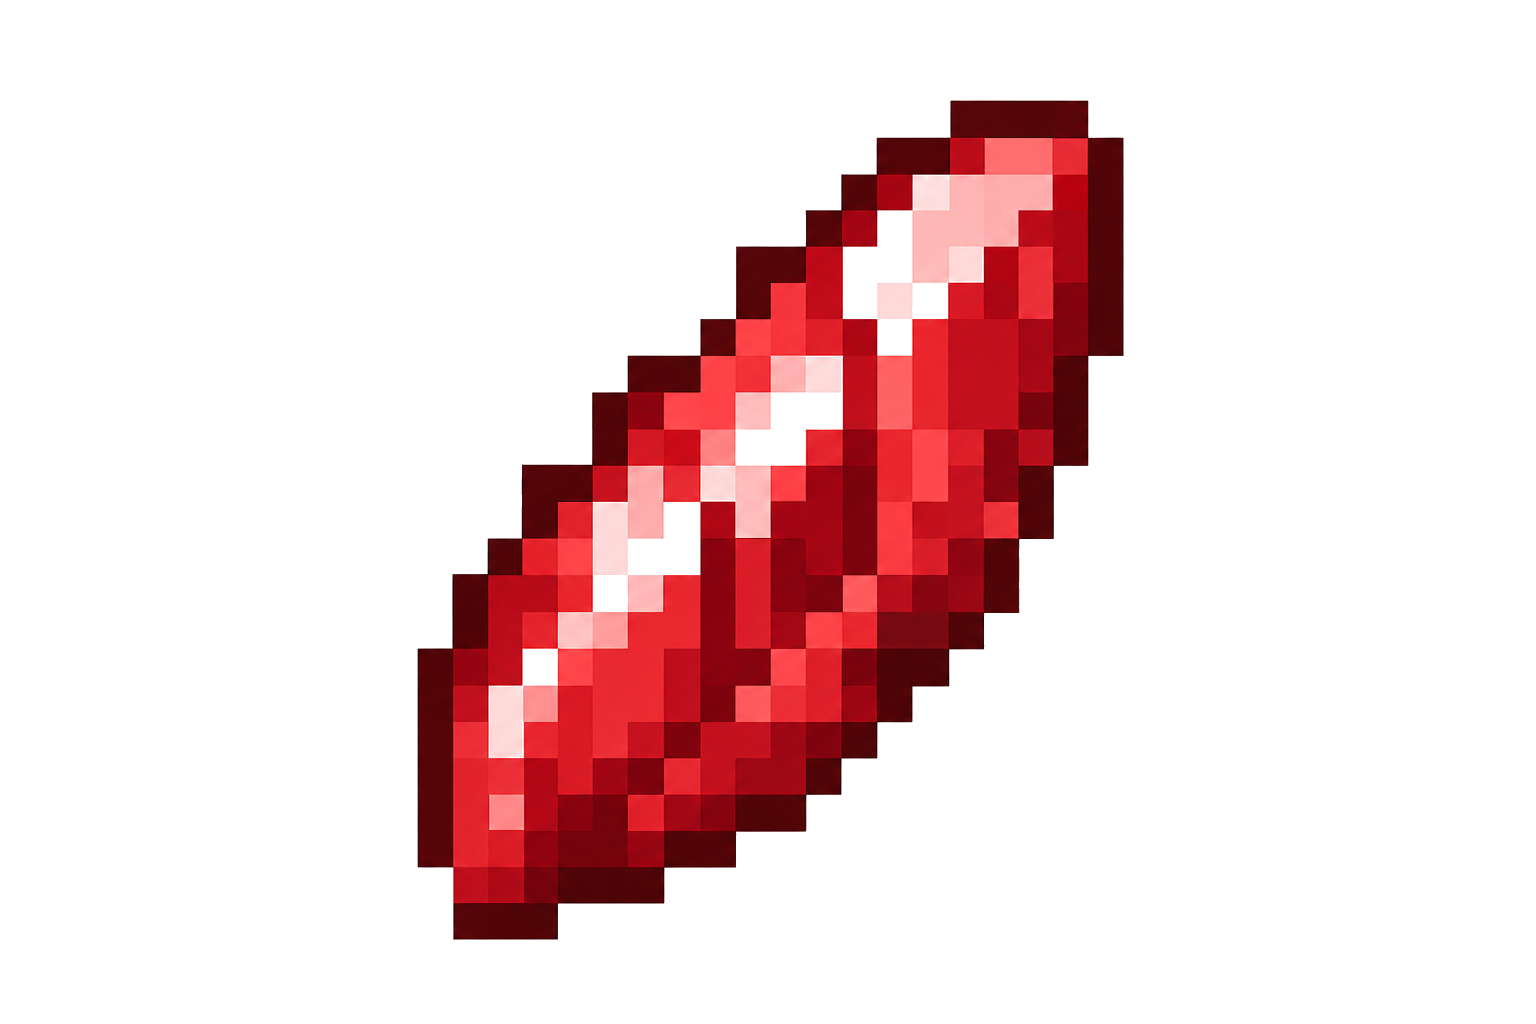
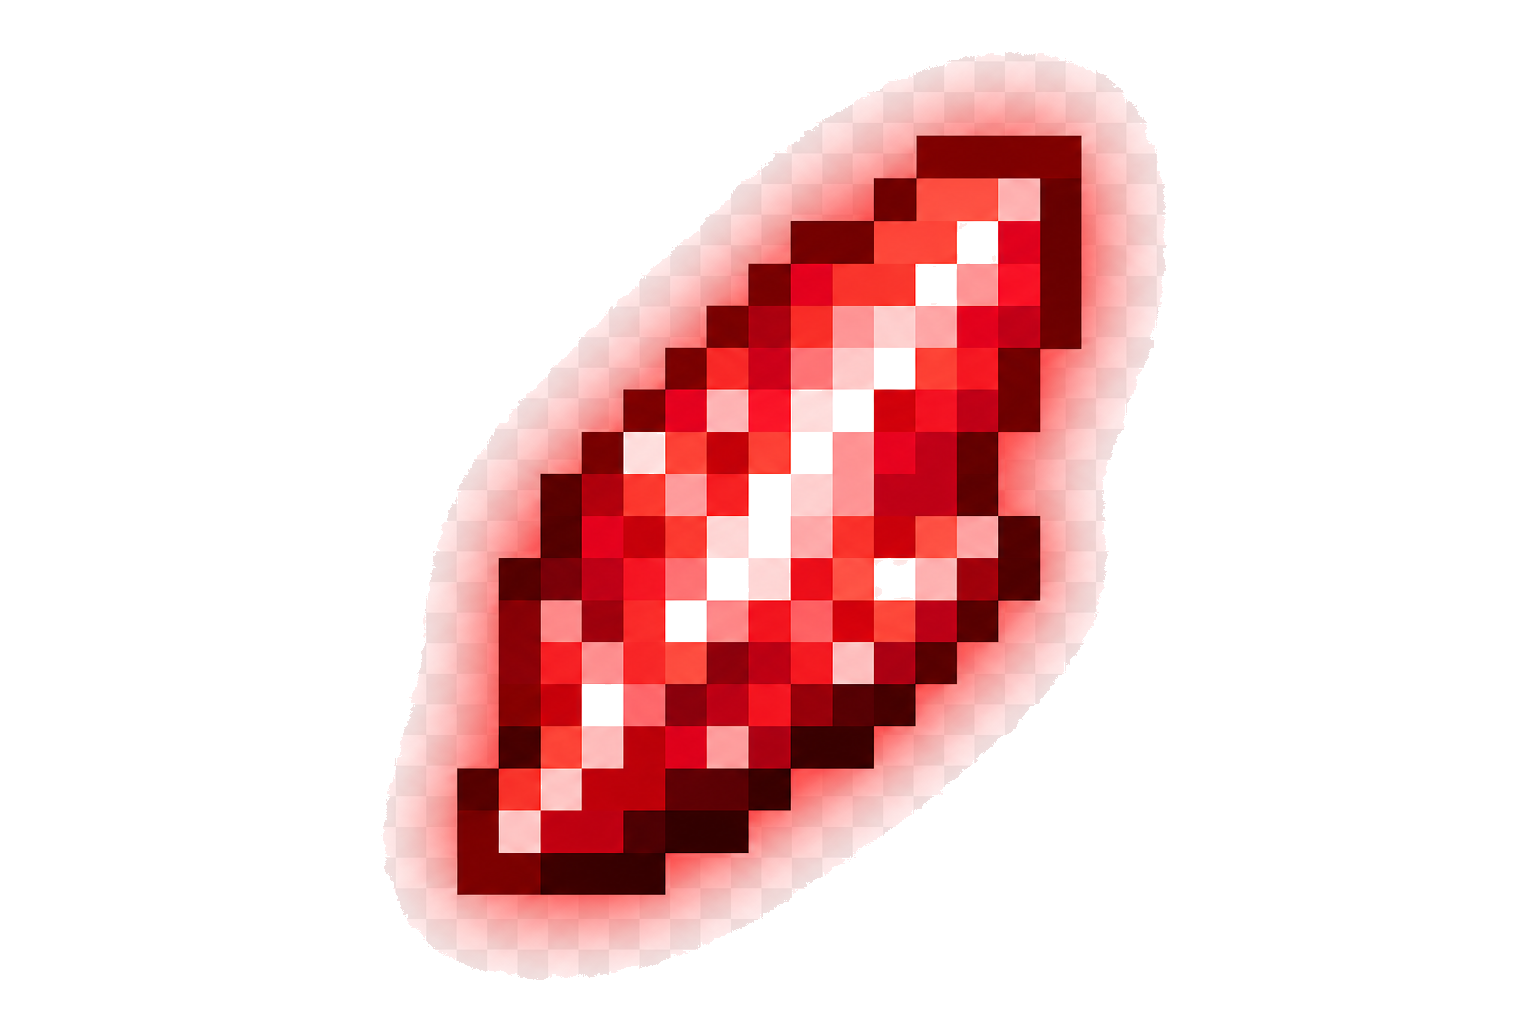
Rex SMP website for rexsmp.com

Changed region(s): [[0.25, 0.0312, 0.7812, 0.9688]]

diff --git a/tebex-rexsmp-theme.css b/tebex-rexsmp-theme.css
@@ -322,7 +322,7 @@ header ~ .container .categories,
 /* BLUE: Rex category buttons inside Home page content */
 .rex-store-home {
   display: grid;
-  grid-template-columns: repeat(auto-fit, minmax(140px, 1fr));
+  grid-template-columns: repeat(auto-fit, minmax(160px, 1fr));
   gap: 1rem;
   margin-bottom: 1.5rem;
 }
@@ -356,8 +356,8 @@ header ~ .container .categories,
 }
 
 .rex-store-home .rex-cat-icon {
-  width: 64px;
-  height: 64px;
+  width: 114px;
+  height: 114px;
   border-radius: 8px;
   background: transparent !important;
   display: flex;
@@ -367,11 +367,14 @@ header ~ .container .categories,
 }
 
 .rex-store-home .rex-cat-img {
-  width: 64px;
-  height: 64px;
+  width: 114px;
+  height: 114px;
+  max-width: 114px;
+  max-height: 114px;
   object-fit: contain;
-  image-rendering: pixelated;
+  image-rendering: -webkit-optimize-contrast;
   image-rendering: crisp-edges;
+  image-rendering: pixelated;
   display: block;
   background: transparent !important;
   border: none !important;

diff --git a/tebex-home-paste-this.html b/tebex-home-paste-this.html
@@ -1,14 +1,14 @@
 <div class="rex-store-home">
   <a href="/category/rexshards">
-    <span class="rex-cat-icon"><img class="rex-cat-img" src="https://rexsmp.com/img/store/rexshards.png" alt="RexShards" width="64" height="64"></span>
+    <span class="rex-cat-icon"><img class="rex-cat-img" src="https://rexsmp.com/img/store/rexshards.png?v=2" alt="RexShards" width="114" height="114"></span>
     <span class="rex-cat-label">RexShards</span>
   </a>
   <a href="/category/ranks">
-    <span class="rex-cat-icon"><img class="rex-cat-img" src="https://rexsmp.com/img/store/ranks.png" alt="Ranks" width="64" height="64"></span>
+    <span class="rex-cat-icon"><img class="rex-cat-img" src="https://rexsmp.com/img/store/ranks.png?v=2" alt="Ranks" width="114" height="114"></span>
     <span class="rex-cat-label">Ranks</span>
   </a>
   <a href="/category/crates">
-    <span class="rex-cat-icon"><img class="rex-cat-img" src="https://rexsmp.com/img/store/crates.png" alt="Crates" width="64" height="64"></span>
+    <span class="rex-cat-icon"><img class="rex-cat-img" src="https://rexsmp.com/img/store/crates.png?v=2" alt="Crates" width="114" height="114"></span>
     <span class="rex-cat-label">Crates</span>
   </a>
 </div>